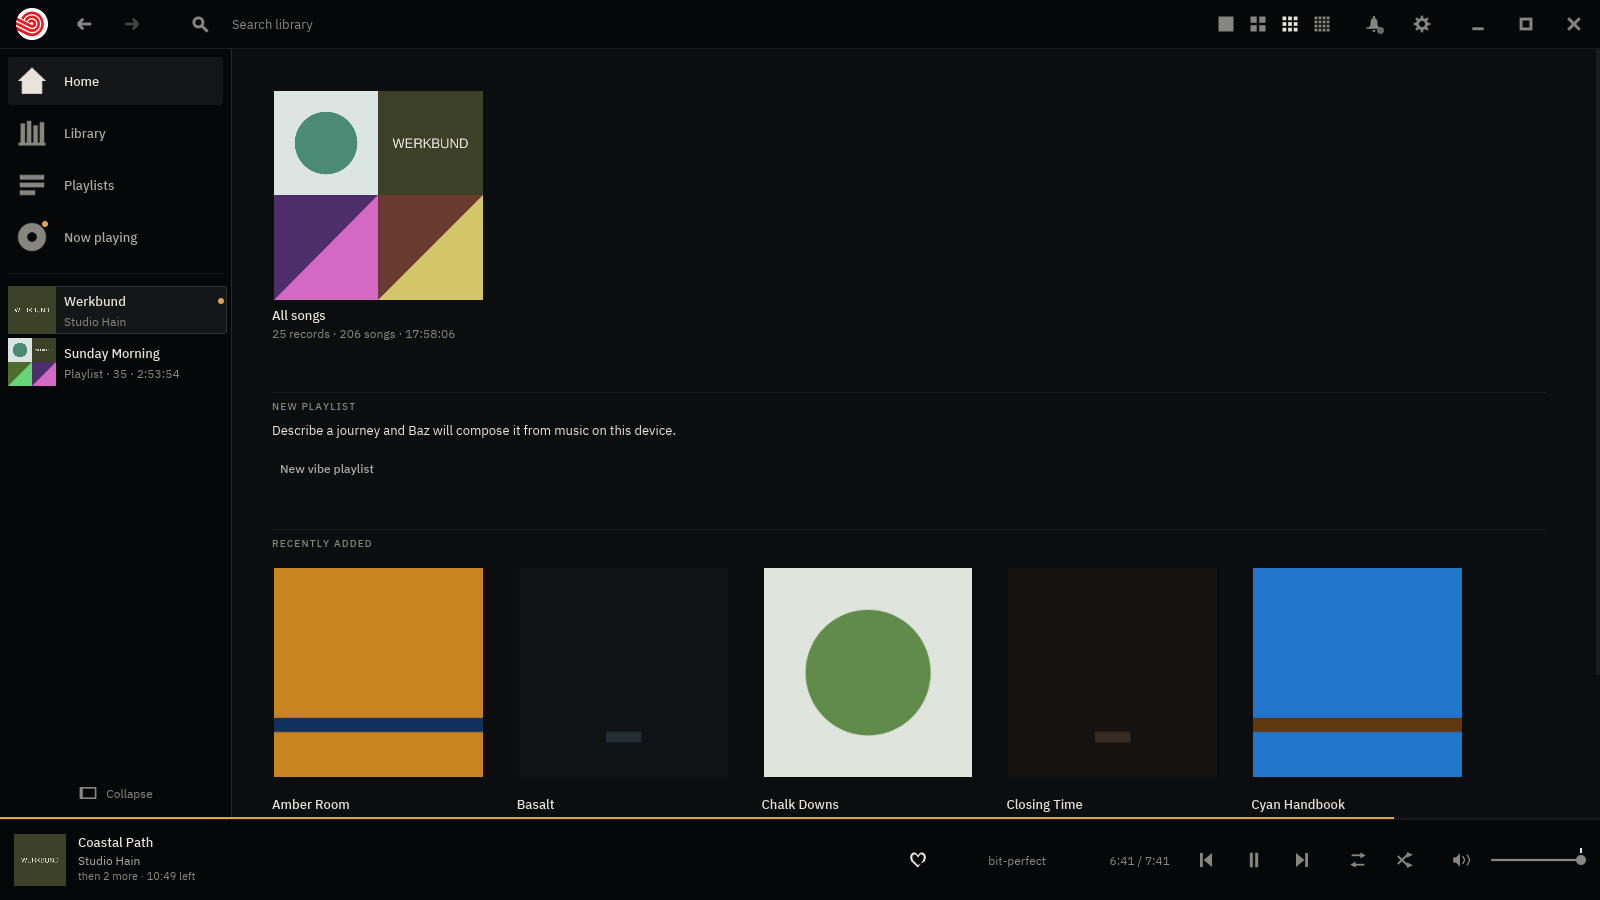
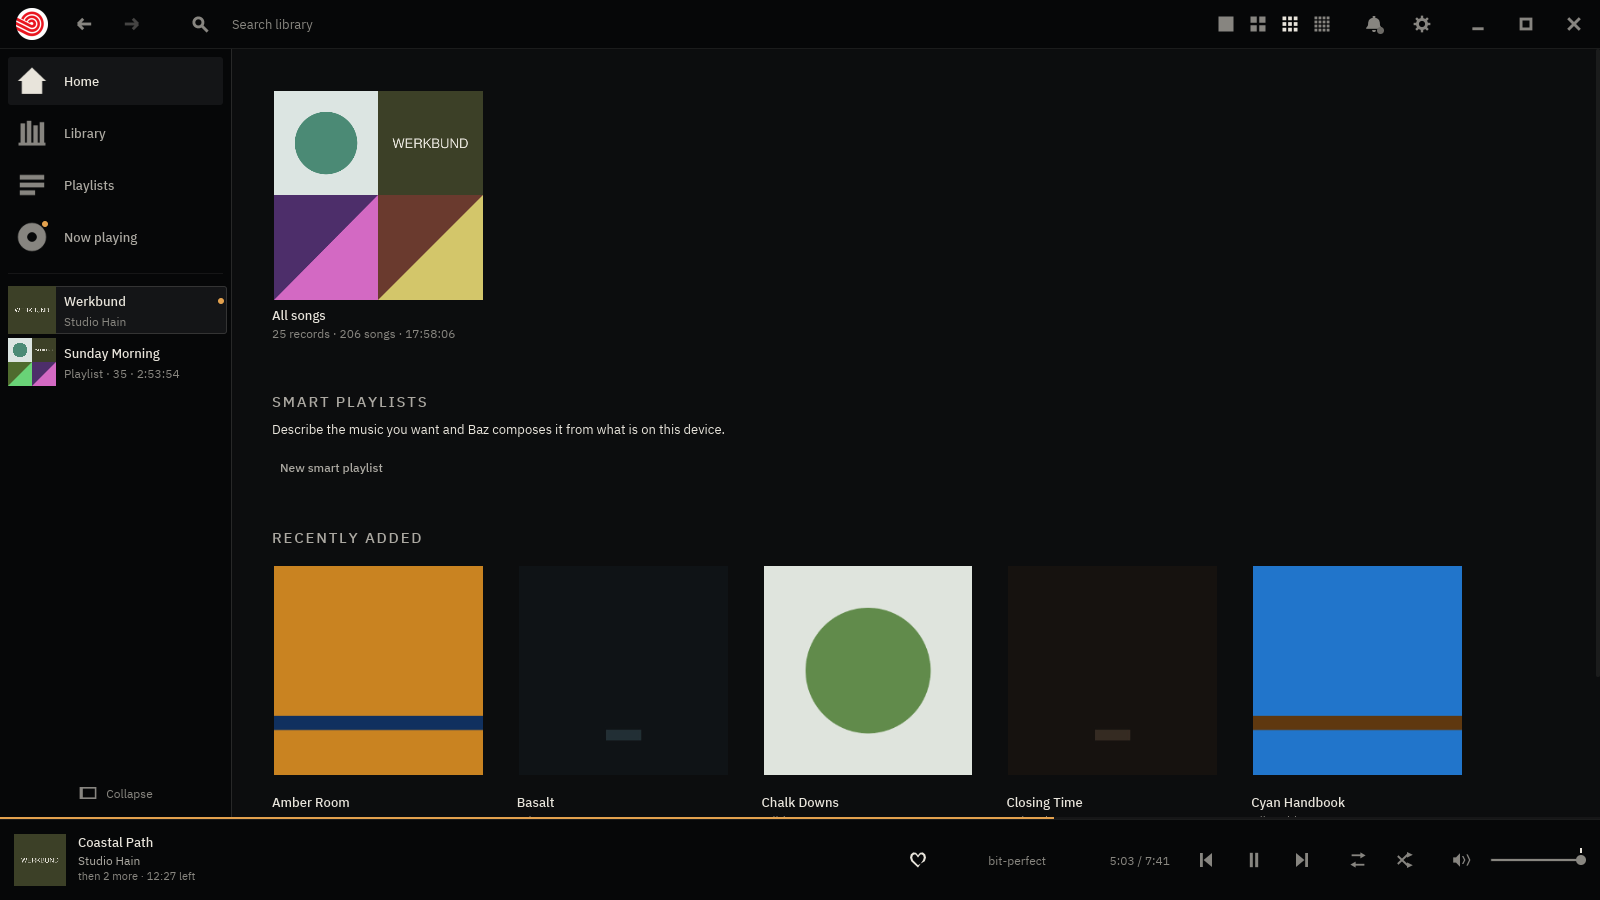
baz 0.3.0
The release commit: version, lockfile, changelog section and link, the
metainfo release element, and the four store frames re-shot.

The screenshot capture had been failing its own check — item 71's guard
catching item 71's failure a second time. The New playlist place's name field
and Save press had moved (y 258 → 186, y 667 → 595) with the work this release
carries, so the run built nothing and said so instead of shipping a picture of
an empty place. Both coordinates re-derived from a frame, as that file's own
note requires, and the run now reports "35 tracks in Sunday Morning.m3u8"
before it photographs anything.

The Now playing frame is also the verification for item 82: the heart sits
beside "Saltmarsh" rather than stranded at the window's edge.

Claude-Session: https://claude.ai/code/session_01Uy6gBVY9behWR1G39qyih9

diff --git a/CHANGELOG.md b/CHANGELOG.md
@@ -24,6 +24,8 @@ Every release is built from a tag by CI, gated on the full test suite — see
 
 ## [Unreleased]
 
+## [0.3.0] - 2026-08-17
+
 ### Changed
 
 - **The line comes first, and your words are a filter.** The curve — how the
@@ -3096,6 +3098,7 @@ a promise about the next commit.
   output (which is also what puts hardware volume out of reach).
   `docs/BACKLOG.md` is the honest list.
 
-[Unreleased]: https://github.com/mattcree/baz/compare/v0.2.0...main
+[Unreleased]: https://github.com/mattcree/baz/compare/v0.3.0...main
+[0.3.0]: https://github.com/mattcree/baz/releases/tag/v0.3.0
 [0.2.0]: https://github.com/mattcree/baz/releases/tag/v0.2.0
 [0.1.0]: https://github.com/mattcree/baz/releases/tag/v0.1.0
